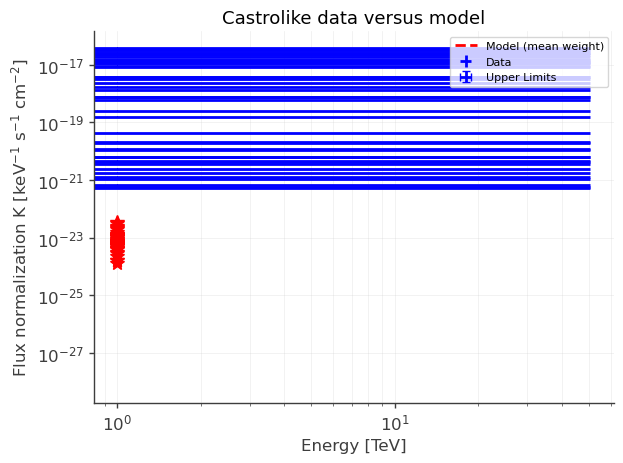
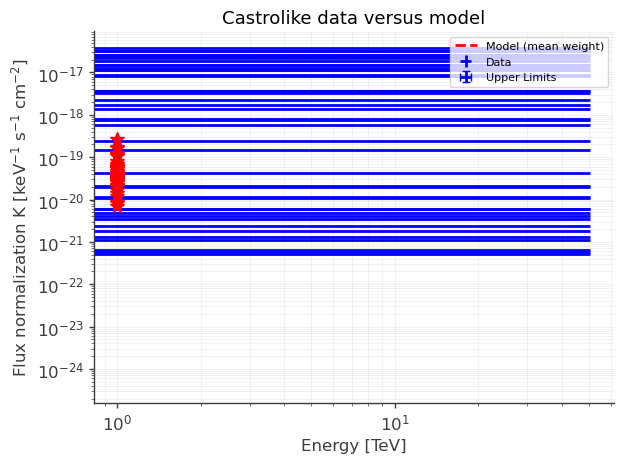
spectrum

diff --git a/ptSource-ind3-14-195keV/adding_sources.py b/ptSource-ind3-14-195keV/adding_sources.py
@@ -28,7 +28,8 @@ lowerE = 0.5 * 1e9              # keV
 upperE = 100 * 1e9              # keV
 
 ## Load CSV and initialize arrays ##
-df = pd.read_csv("data50sources.csv",sep='\\s+').to_numpy()
+#df = pd.read_csv("data_normalized.csv",sep='\\s+').to_numpy()
+df = pd.read_csv("data_normalized.csv",sep=',').to_numpy()
 
 #numsources = 41
 #numsourcesstr = '41'
@@ -38,6 +39,7 @@ sourceName = df[:,0]
 RA = df[:,1]
 Dec = df[:,2]
 A = df[:,3]
+Anorm = df[:,4]
 
 Atotal = 0
 for c in range(len(sourceName)):
@@ -90,7 +92,8 @@ for j, e in enumerate(midE):
                                weight=A[i],pivot=e*1e9)
         IntC_arr.append(ic)
 
-        nullLLH_arr.append(A[i] * nullLLH)  # need to weight for TS calculations
+#        nullLLH_arr.append(A[i] * nullLLH)  # need to weight for TS calculations
+        nullLLH_arr.append(nullLLH)   # no weighing? 
         TS_arr.append(TSind)
 
         ## End Source loop ##
@@ -136,8 +139,8 @@ for j, e in enumerate(midE):
     IntC = IntervalContainer(lowerE,upperE,norms_Stack,log_val_Stack,101)
 
     # Plot stacked profile #    
-    figname = os.path.join(DIR,"plots/modstacked_%.1fTeV_pllh.png"%(e))
-    plot_logProfile_alt([IntC],param_df,like_df,"Stacked",show=False,minlogN=minlogN,maxlogN=maxlogN,save=figname)
+#    figname = os.path.join(DIR,"plots/modstacked_%.1fTeV_pllh.png"%(e))
+#    plot_logProfile_alt([IntC],param_df,like_df,"Stacked",show=False,minlogN=minlogN,maxlogN=maxlogN,save=figname)
 
 
     ## Build results dataframe ##
@@ -152,7 +155,7 @@ for j, e in enumerate(midE):
         }
 
 ## Save full results dictionary to one csv per index ##
-f = open("%s/mod-nopiv-results-stacked-ind%s-50sources.csv"%(DIR,ix),'w',newline='')
+f = open("%s/normed-nopiv-nonullweight-results-stacked-ind%s.csv"%(DIR,ix),'w',newline='')
 writer = csv.writer(f)
 writer.writerow(['pivot','indminNorm','TS'] +\
 #,'loglike'] +\

diff --git a/crabtests/plot_spec.py b/crabtests/plot_spec.py
@@ -1,0 +1,34 @@
+import matplotlib.pyplot as plt
+import pandas as pd
+import numpy as np
+
+IX = ['2','27','3']
+inds = [2.0,2.7,3.0]
+NUM = ['one','two']
+c = plt.cm.tab10(np.linspace(0, 1, len(NUM)*len(IX))).reshape(len(NUM), len(IX), 4) 
+
+xarr = np.linspace(0.5,15,10000)  # in TeV
+
+
+plt.figure(layout='constrained')
+
+for j,ix in enumerate(IX):
+    for i,num in enumerate(NUM):
+        df = pd.read_csv(f"mod-nopiv-stacked-ind{ix}-{num}crab-results.csv")
+        pivot = df['pivot']
+        indminNorm = df['indminNorm']
+
+        plt.scatter(pivot,indminNorm,color=c[i,j],label=f"Index = {ix}, {num} crabs")
+   
+        for k,pv in enumerate(pivot):
+            y = indminNorm[k] * (xarr/pv) ** -(inds[j]) 
+            plt.plot(xarr,y,color=c[i,j],label=f"Powerlaw Spectrum Line")
+
+
+plt.xlabel("Pivot energy [TeV]")
+plt.ylabel("Normalization")
+plt.title("Crab calculated spectrum")
+plt.legend()
+plt.savefig("crab_spec_calc.png")
+plt.close()
+

diff --git a/ptSource-ind3-14-195keV/normalize.py b/ptSource-ind3-14-195keV/normalize.py
@@ -1,0 +1,12 @@
+import pandas as pd
+
+df = pd.read_csv("data14-195.csv",sep='\\s+')
+
+A = df.iloc[:,3]
+Anorm = []
+
+df['Normed_weights'] = (A-min(A)) / (max(A)-min(A))
+
+print(df['Normed_weights'])
+
+df.to_csv('data_normalized.csv',index=False)
